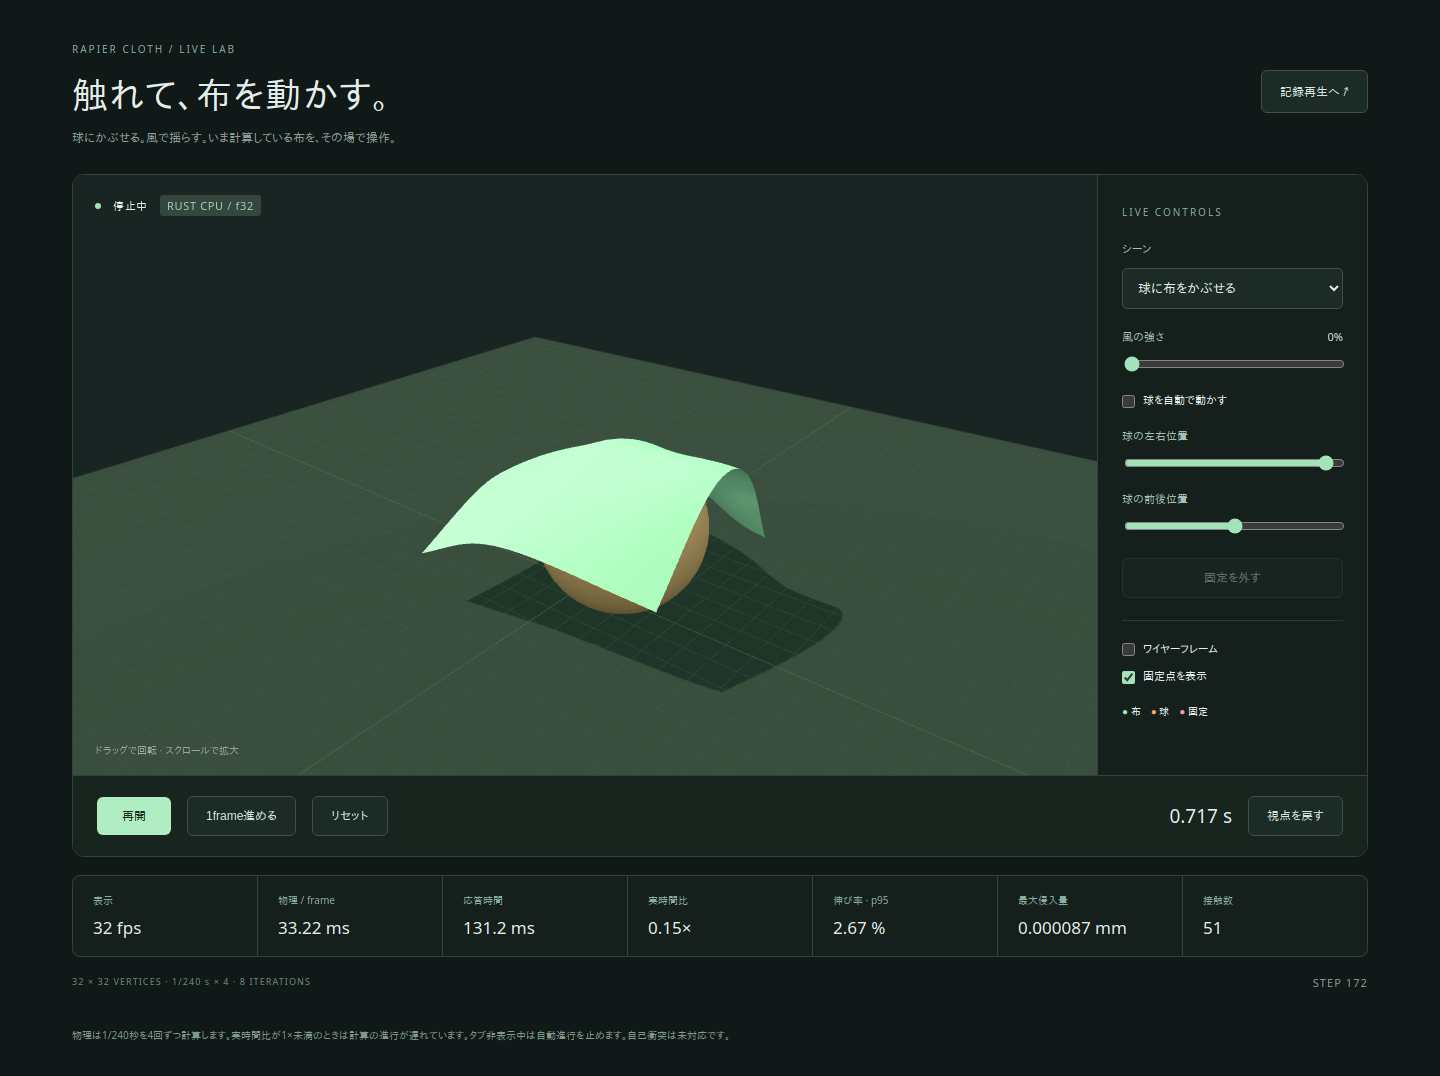
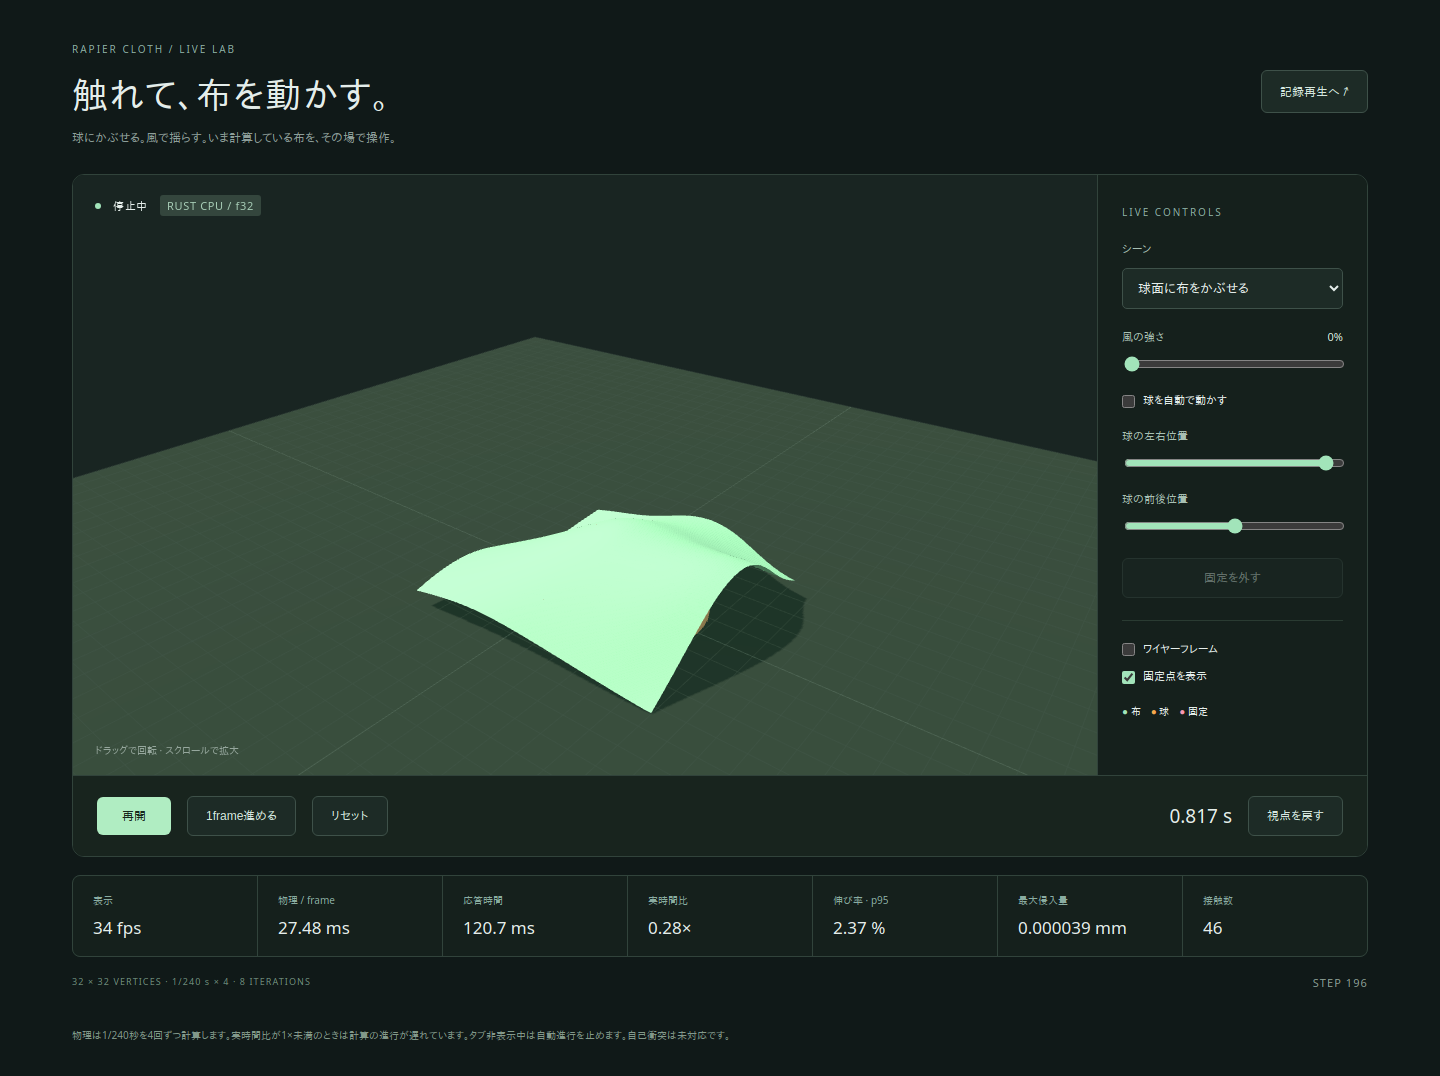
fix: keep live drape contacts stable during continuous motion

diff --git a/demos/viewer/live.html b/demos/viewer/live.html
@@ -3,7 +3,7 @@
 <body class="live">
 <header><div><span class="eyebrow">RAPIER CLOTH / LIVE LAB</span><h1>触れて、布を動かす。</h1><p>球にかぶせる。風で揺らす。いま計算している布を、その場で操作。</p></div><a class="file-button" href="/">記録再生へ ↗</a></header>
 <main><section class="stage"><div id="viewport" aria-label="ライブの布シミュレーション"></div><div class="stage-tag"><span class="dot"></span><span id="status" role="status">接続中</span><span id="precision">CPU</span></div><div class="camera-hint">ドラッグで回転 · スクロールで拡大</div></section>
-<aside><span class="eyebrow">LIVE CONTROLS</span><label class="field">シーン<select id="scene" disabled><option value="drape">球に布をかぶせる</option><option value="hanging">風になびく布</option></select></label>
+<aside><span class="eyebrow">LIVE CONTROLS</span><label class="field">シーン<select id="scene" disabled><option value="drape">球面に布をかぶせる</option><option value="hanging">風になびく布</option></select></label>
 <label class="field">風の強さ <output id="wind-value">0%</output><input id="wind" type="range" min="0" max="1" step="0.05" value="0" disabled></label>
 <label class="check"><input id="auto-motion" type="checkbox" checked disabled>球を自動で動かす</label>
 <label class="field">球の左右位置<input id="sphere-x" type="range" min="-0.45" max="0.45" step="0.01" value="0" disabled></label>

diff --git a/demos/live-server/src/simulation.rs b/demos/live-server/src/simulation.rs
@@ -5,6 +5,7 @@ use std::time::Instant;
 
 pub const H: Real = 1.0 / 240.0;
 pub const SUBSTEPS: usize = 4;
+const SPHERE_RADIUS: Real = 0.3;
 
 #[derive(Clone, Copy, Debug, Deserialize, Serialize, PartialEq)]
 #[serde(rename_all = "snake_case")]
@@ -88,16 +89,20 @@ impl Demo {
         rigid
             .colliders
             .insert(ColliderBuilder::new(SharedShape::halfspace(Vec3::Y)));
-        let sphere = rigid.bodies.insert(
-            RigidBodyBuilder::kinematic_position_based().translation(Vec3::new(0.0, 0.3, 0.0)),
+        // A hemisphere above the floor avoids trapping cloth in a closing,
+        // sub-radius gap between two opposing one-way contact surfaces.
+        let sphere = rigid
+            .bodies
+            .insert(RigidBodyBuilder::kinematic_position_based().translation(Vec3::ZERO));
+        rigid.colliders.insert_with_parent(
+            ColliderBuilder::ball(SPHERE_RADIUS),
+            sphere,
+            &mut rigid.bodies,
         );
-        rigid
-            .colliders
-            .insert_with_parent(ColliderBuilder::ball(0.3), sphere, &mut rigid.bodies);
         let height = if scene == SceneKind::Hanging {
             1.15
         } else {
-            0.61
+            SPHERE_RADIUS + 0.01
         };
         let mesh = GridBuilder::new(32, 32)
             .origin(Vec3::new(-0.5, height, -0.5))
@@ -153,9 +158,18 @@ impl Demo {
             }
             Command::Step => {
                 let start = Instant::now();
+                let mut penetration: Real = 0.0;
+                let mut stretch: Real = 0.0;
+                let mut contacts = 0;
                 for _ in 0..SUBSTEPS {
                     self.substep()?;
+                    penetration = penetration.max(self.report.max_penetration);
+                    stretch = stretch.max(self.report.p95_stretch);
+                    contacts = contacts.max(self.report.contacts);
                 }
+                self.report.max_penetration = penetration;
+                self.report.p95_stretch = stretch;
+                self.report.contacts = contacts;
                 self.physics_ms = start.elapsed().as_secs_f64() * 1000.0;
             }
         }
@@ -171,13 +185,9 @@ impl Demo {
             &self.rigid.colliders,
         );
         let target = if self.options.auto_motion {
-            Vec3::new(
-                0.1 * (0.9 * t).sin(),
-                0.3 + 0.06 * (0.7 * t).sin(),
-                0.07 * (0.6 * t).sin(),
-            )
+            Vec3::new(0.1 * (0.9 * t).sin(), 0.0, 0.07 * (0.6 * t).sin())
         } else {
-            Vec3::new(self.options.sphere_x, 0.3, self.options.sphere_z)
+            Vec3::new(self.options.sphere_x, 0.0, self.options.sphere_z)
         };
         let current = self.rigid.bodies[self.sphere].translation();
         // UI targets may jump. Limit actual surface motion to 0.25m/s, below
@@ -234,7 +244,7 @@ impl Demo {
                 .then(|| cloth.mesh().triangles().iter().flatten().copied().collect()),
             pins: cloth.pins().keys().copied().collect(),
             sphere: self.rigid.bodies[self.sphere].translation().to_array(),
-            sphere_radius: 0.3,
+            sphere_radius: SPHERE_RADIUS,
             options: self.options,
             physics_ms: self.physics_ms,
             p95_stretch: self.report.p95_stretch,
@@ -286,23 +296,29 @@ mod tests {
         let initial = demo.frame(0, true);
         assert_eq!(initial.positions.len(), 3072);
         assert_eq!(initial.triangles.as_ref().unwrap().len(), 31 * 31 * 6);
-        let mut last = initial.positions.clone();
-        for seq in 1..=90 {
+        let mut draped = false;
+        for seq in 1..=1200 {
             let frame = demo.command(Command::Step, seq).unwrap();
             assert_eq!(frame.step, seq as u64 * 4);
             assert!(frame.positions.iter().all(|p| p.is_finite()));
-            assert!(frame.max_penetration < 0.001);
-            last = frame.positions;
+            assert!(
+                frame.max_penetration < 0.001,
+                "frame {seq}: penetration {}",
+                frame.max_penetration
+            );
+            draped |= frame.positions.chunks_exact(3).any(|p| p[1] < 0.1)
+                && frame
+                    .positions
+                    .chunks_exact(3)
+                    .any(|p| p[1] > SPHERE_RADIUS * 0.8);
         }
-        assert_ne!(last, initial.positions);
-        assert!(last.chunks_exact(3).any(|p| p[1] < 0.1));
-        assert!(last.chunks_exact(3).any(|p| p[1] > 0.5));
+        assert!(draped, "cloth must actually drape over the sphere");
         let reset = demo
             .command(
                 Command::Reset {
                     scene: SceneKind::Drape,
                 },
-                91,
+                1201,
             )
             .unwrap();
         assert_eq!(reset.positions, initial.positions);

diff --git a/docs/live-demo.ja.md b/docs/live-demo.ja.md
@@ -23,7 +23,7 @@ CLOTH_SERVER_PORT=9200 CLOTH_VIEWER_PORT=5273 npm --prefix demos/viewer run live
 
 | 操作 | 動作 |
 |---|---|
-| 球に布をかぶせる | 自由な布を球と床へ落とす。球の自動移動で接触が変化する |
+| 球面に布をかぶせる | 自由な布を球面と床へ落とす。球の下半分を床に埋め、水平方向の自動移動で接触を変える |
 | 風になびく布 | 一辺の32頂点を固定した布に風を加える |
 | 風の強さ | 時間変化する外力を調整する。流体シミュレーションではなく、面密度に合わせた外力のデモ |
 | 球の左右・前後位置 | 自動移動をOFFにして操作。目標へ最大0.25m/sで移動する |
@@ -42,7 +42,7 @@ CLOTH_SERVER_PORT=9200 CLOTH_VIEWER_PORT=5273 npm --prefix demos/viewer run live
 - **物理 / frame**: Rustで4substepを計算した時間。Rapier、外力設定、clothの診断を含み、JSON変換・通信・描画を含まない。
 - **応答時間**: 操作要求の送信から応答受信まで。物理、JSON、通信、ブラウザでのイベント処理待ちを含む。
 - **実時間比**: 進んだシミュレーション時間 / 実際の経過時間。1×が実時間相当。停止中は0×になる。
-- **伸び・侵入・接触**: 最新substepのRust側診断。
+- **伸び・侵入・接触**: 最新frame内の4substepにおける各診断の最大値。
 
 遅い環境では時間刻みや反復数を落とさず、シミュレーションの進行が遅くなる。表示fpsだけでは物理が実時間で進んでいると判断できない。[CPU benchmark](benchmarks.ja.md#realtime-cpu)の結果は通信・描画込みの60fps保証ではない。Chromiumのsoftware WebGLによる自動試験は操作と描画データの検証で、実GPUの性能検証とは分ける。
 
@@ -91,7 +91,7 @@ CLOTH_LIVE_PRECISION=f64 npm --prefix demos/viewer run test:live
 
 既存Chromeを使う場合は `CHROME_PATH=/usr/bin/google-chrome` を指定する。テスト用のCPU/UIポートは9174/4174。UIはproduction buildをpreviewし、実際のRustサーバーを起動する。
 
-Rust試験は4substep/frame、変形と接触、初期状態へのreset、目標速度制限、不正な値の拒否、固定解除を確認する。ブラウザ試験は受信したWebSocket frameとGPU頂点・bounds・球の姿勢を照合し、操作後の変形、停止、1frame実行、リセット、風、固定解除、カメラ、接続間の独立性、切断・再接続を確認する。記録JSONの取得が発生していないことも検証する。
+Rust試験は4substep/frame、変形と接触、初期状態へのreset、目標速度制限、不正な値の拒否、固定解除を確認する。drapeは4,800substep（20秒分）を進め、全substepの侵入が1mm未満であることも検証する。ブラウザ試験は受信したWebSocket frameとGPU頂点・bounds・球の姿勢を照合し、操作後の変形、停止、1frame実行、リセット、風、固定解除、カメラ、接続間の独立性、切断・再接続を確認する。記録JSONの取得が発生していないことも検証する。
 
 ![ライブデモの操作画面](evidence/live-demo.png)
 

diff --git a/docs/progress.md b/docs/progress.md
@@ -57,3 +57,5 @@ Both local precision suites passed, including the 10,000-substep hanging gate. R
 The [live demo](live-demo.ja.md) now connects a Three.js UI to an actual local Rust solver. It supports 32×32 draping and hanging scenes, bounded sphere targets, wind forces, pause/single-frame/reset/release, camera controls and reconnection. Each connection owns a separate world and only advances when requested; no recording is loaded. Network dependencies are isolated in the unpublished `demos/live-server` crate.
 
 Local Linux checks passed in f32 and f64: three native scene/state tests and three Chromium tests per precision, including wire-message/GPU-buffer parity, controls during pending reset, pin draw buffers, pause, independent connections, invalid input, disconnect and reconnect. Both existing replay tests also passed. The one-command launcher's actual browser connection advanced four substeps, and Ctrl+C closed both of its listening ports. The CI adds separate f32/f64 live jobs against production UI builds. These are functional software-WebGL checks, not a rendering-inclusive 60fps qualification on hardware GPUs.
+
+The moving drape scene also passes 4,800 substeps (20 simulated seconds) in both precisions, with finite positions and penetration below 1mm at every substep. The sphere is half embedded in the floor and moves horizontally; this avoids trapping cloth in a closing gap between the floor and sphere. The UI reports the maximum diagnostic values across all four substeps in each frame. This scene-specific check does not qualify arbitrary obstacle gaps or self-collision.
